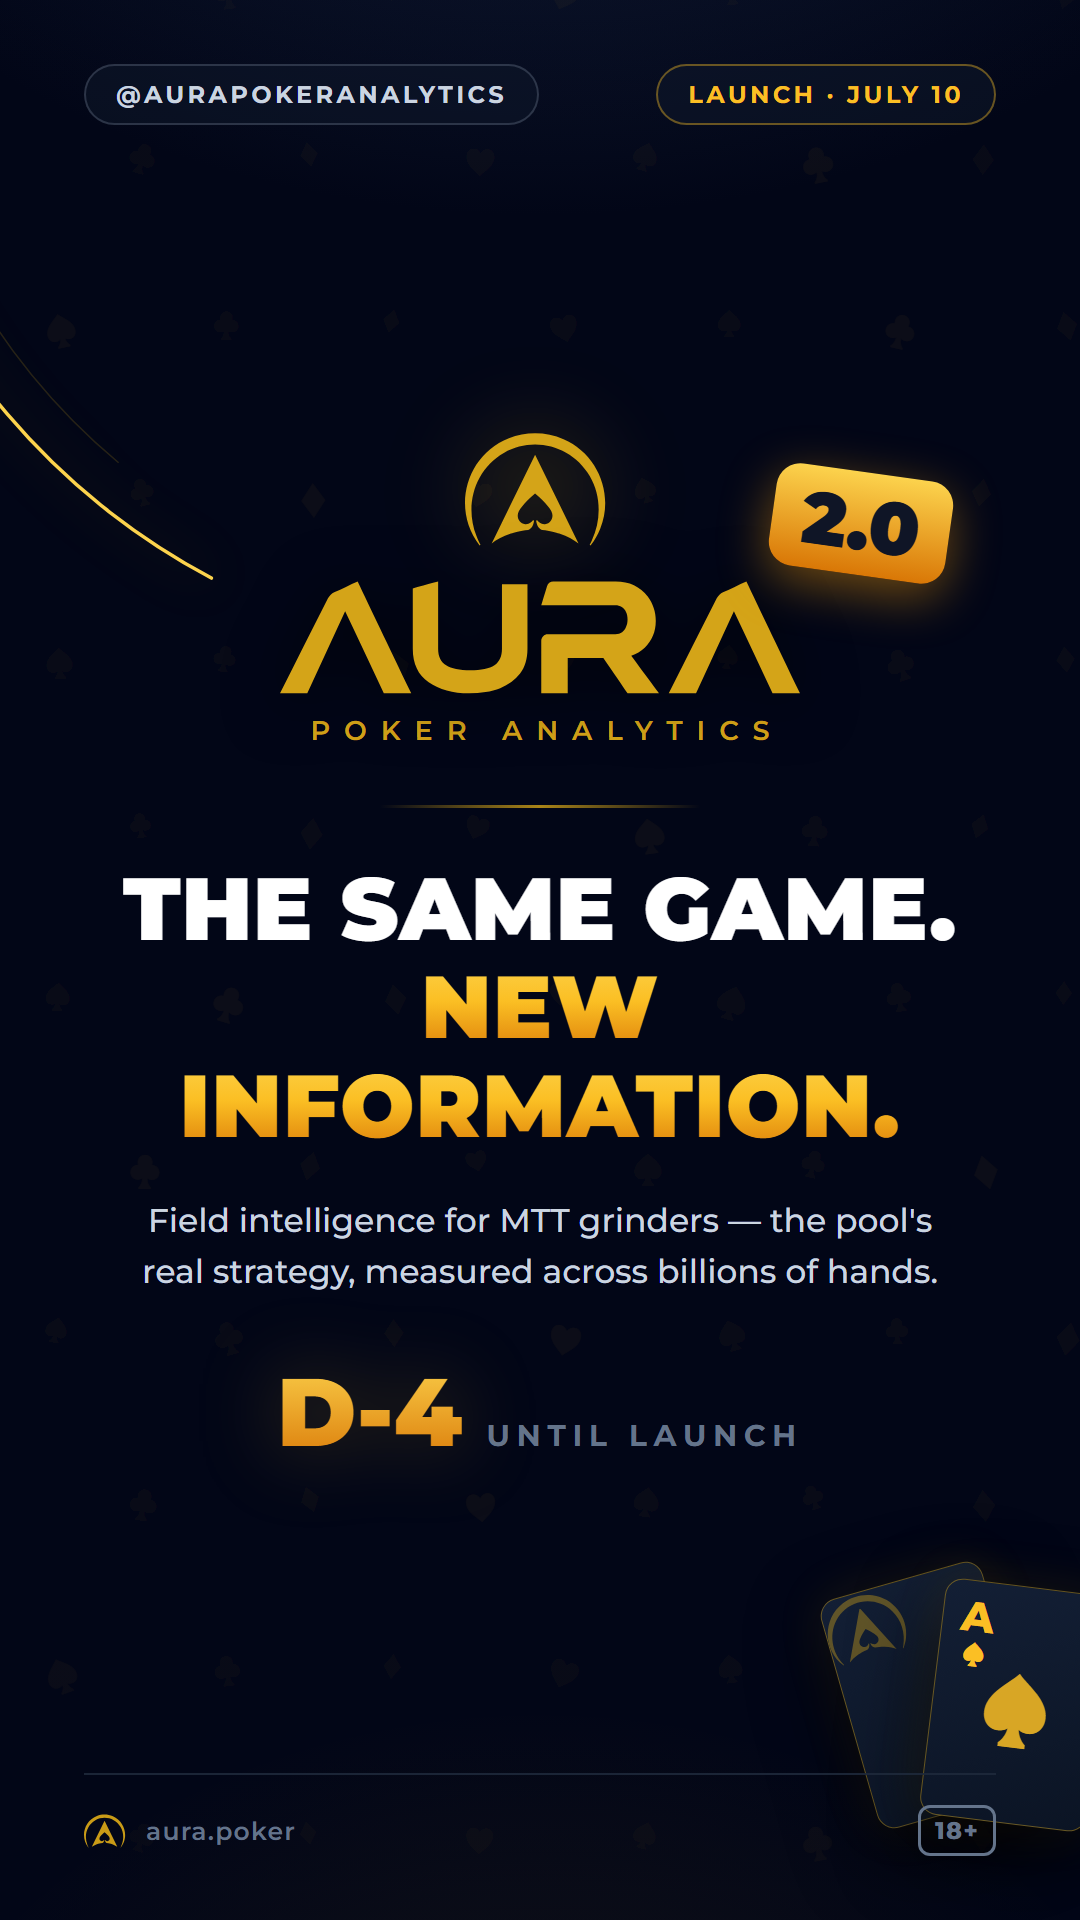
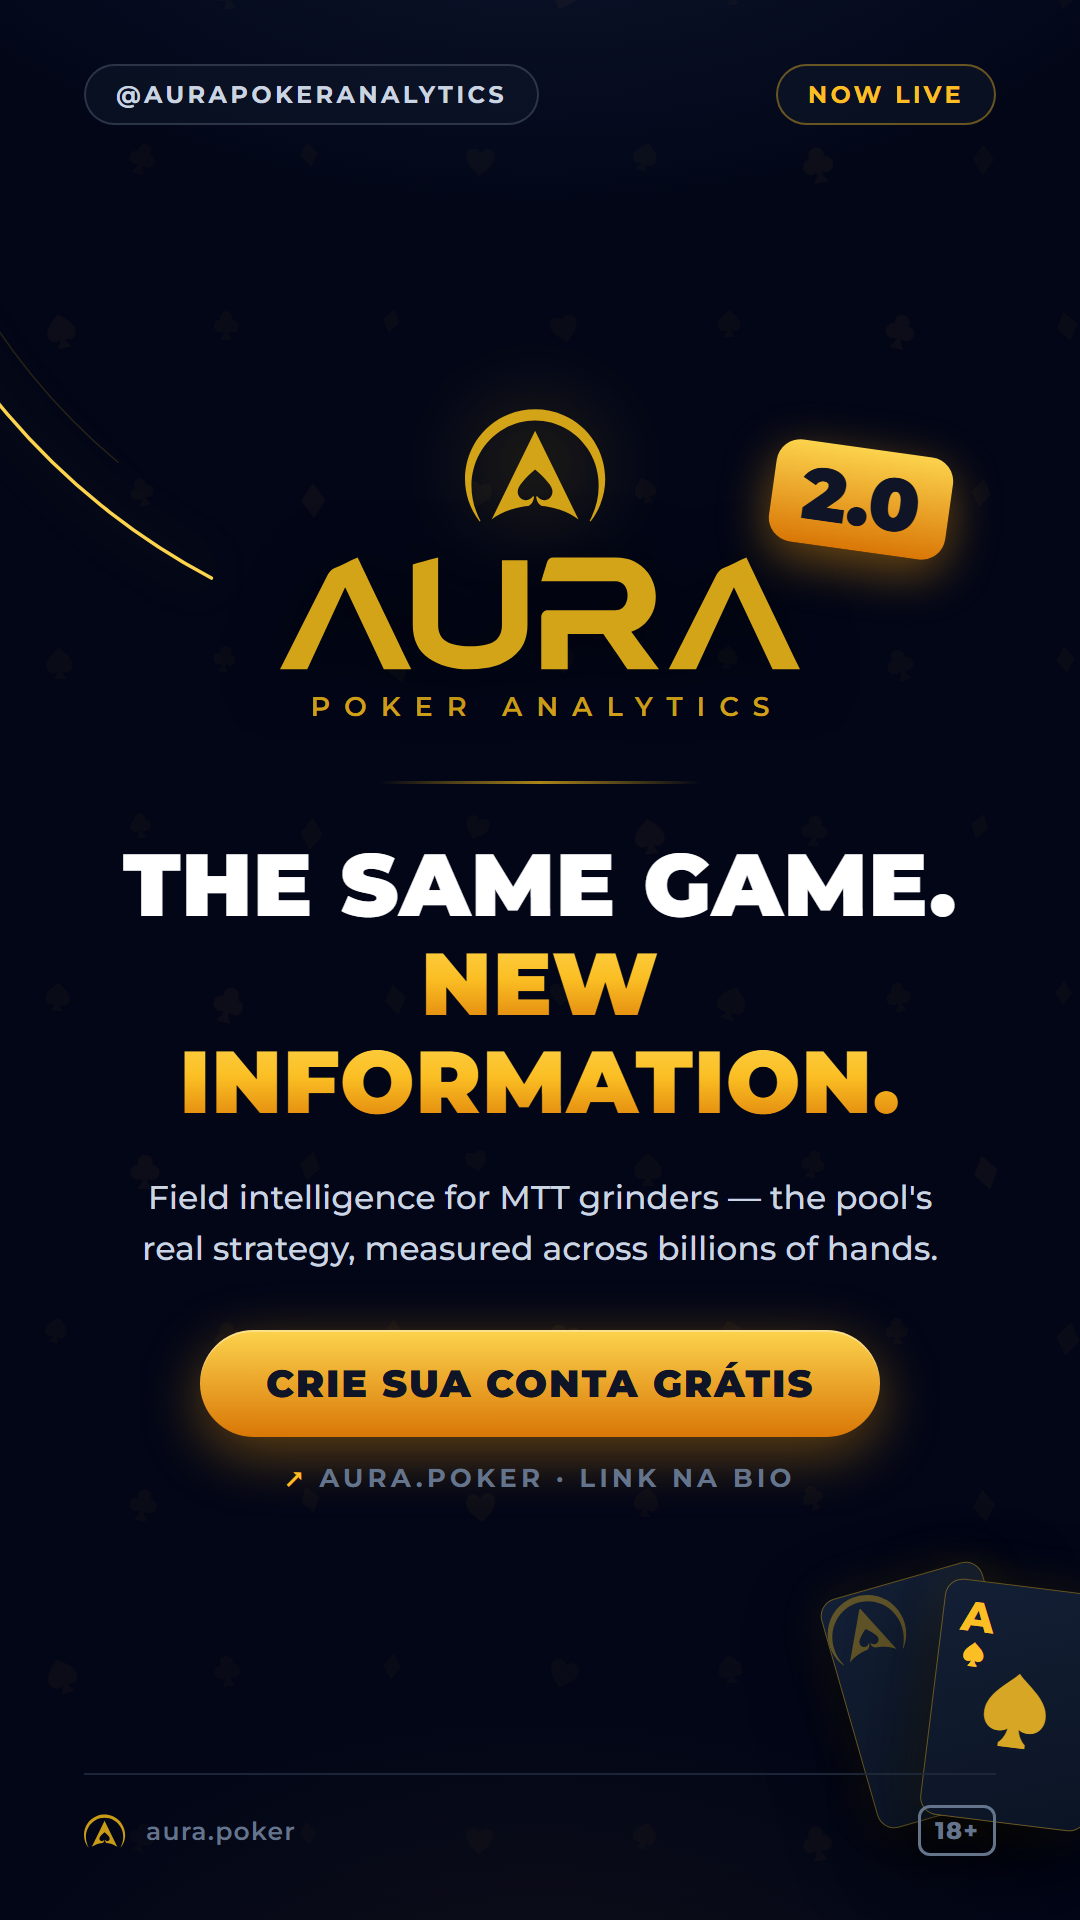
feat(instagram): hero de lancamento direto (sem countdown) + brief de trafego
launch-hero: countdown D-4 vira CTA de conta gratis; chip Now live. Decisao do PO 2026-07-08: entramos direto com posts de lancamento, sem teaser. Estrategia-criativa: cadencia sem countdown (D0 = reveal + Hotspot). Novo content/brief-trafego-post-launch-hero.md: prompt pra thread de Midia Paga definir o papel do post no pago (3 opcoes, tudo pausado). Re-render do hero feed + story.

Changed region(s): [[0.0917, 0.4375, 0.8861, 0.7812], [0.2444, 0.1875, 0.8861, 0.4062], [0.6417, 0.0312, 0.8861, 0.0625]]

diff --git a/instagram/templates/launch-hero.html b/instagram/templates/launch-hero.html
@@ -5,14 +5,14 @@
 <title>Aura · launch-hero</title>
 <script>
 /* ============================================================
-   LAUNCH HERO — pilar L1 (reveal / countdown do launch 2.0)
+   LAUNCH HERO — pilar L1 (reveal do launch 2.0)
    1080×1350 (feed) · 1080×1920 (story — mesmo arquivo)
    Edite apenas o CONFIG.
    ============================================================ */
 const CONFIG = {
   // chip do topo esquerdo e direito
   topLeft: "@aurapokeranalytics",
-  topRight: "Launch · July 10",
+  topRight: "Now live",
 
   // badge de versão sobre o wordmark ("" esconde)
   versionBadge: "2.0",
@@ -23,9 +23,9 @@ const CONFIG = {
   // linha de apoio (sentence case)
   sub: "Field intelligence for MTT grinders — the pool's real strategy, measured across billions of hands.",
 
-  // chip de countdown/CTA central ("" esconde)  ex: "D-4" ou "OUT NOW"
-  countdown: "D-4",
-  countdownLabel: "until launch",
+  // CTA de lançamento ("" esconde)
+  cta: "Crie sua conta grátis",
+  ctaSub: "aura.poker · link na bio",
 
   // cartas decorativas no canto (true/false)
   showCards: true,
@@ -166,28 +166,32 @@ body {
   color: var(--ink-soft);
   max-width: 820px;
 }
-.countdown {
+.cta-block {
   margin-top: 56px;
   display: flex;
-  align-items: baseline;
-  gap: 24px;
+  flex-direction: column;
+  align-items: center;
+  gap: 22px;
 }
-.countdown .big {
-  font-size: 96px;
+.cta-pill {
+  font-size: 38px;
   font-weight: 900;
+  letter-spacing: 0.05em;
+  text-transform: uppercase;
+  color: var(--navy);
   background: linear-gradient(180deg, var(--amber3), var(--amber6));
-  -webkit-background-clip: text;
-  background-clip: text;
-  color: transparent;
-  filter: drop-shadow(0 0 40px rgba(251, 191, 36, 0.25));
+  border-radius: 999px;
+  padding: 30px 66px;
+  box-shadow: 0 16px 60px rgba(245, 158, 11, 0.4), inset 0 2px 0 rgba(255, 255, 255, 0.35);
 }
-.countdown .label {
-  font-size: 30px;
+.cta-sub {
+  font-size: 26px;
   font-weight: 700;
-  letter-spacing: 0.22em;
+  letter-spacing: 0.16em;
   text-transform: uppercase;
   color: var(--ink-dim);
 }
+.cta-sub::before { content: "↗ "; color: var(--amber); }
 
 /* ------- cartas decorativas ------- */
 .cards { position: absolute; right: -30px; bottom: 96px; z-index: 2; }
@@ -262,9 +266,9 @@ footer.bar { border-top: 2px solid rgba(30, 41, 59, 0.9); padding-top: 30px; }
   <div class="divider"></div>
   <h1 class="headline" id="headline"></h1>
   <p class="sub" id="sub"></p>
-  <div class="countdown" id="countdown">
-    <span class="big" id="countBig"></span>
-    <span class="label" id="countLabel"></span>
+  <div class="cta-block" id="ctaBlock">
+    <span class="cta-pill" id="cta"></span>
+    <span class="cta-sub" id="ctaSub"></span>
   </div>
 </div>
 
@@ -324,11 +328,11 @@ document.getElementById("footerLeft").textContent = CONFIG.footerLeft;
 const version = document.getElementById("version");
 if (CONFIG.versionBadge) { version.textContent = CONFIG.versionBadge; } else { version.style.display = "none"; }
 
-const cd = document.getElementById("countdown");
-if (CONFIG.countdown) {
-  document.getElementById("countBig").textContent = CONFIG.countdown;
-  document.getElementById("countLabel").textContent = CONFIG.countdownLabel;
-} else { cd.style.display = "none"; }
+const ctaBlock = document.getElementById("ctaBlock");
+if (CONFIG.cta) {
+  document.getElementById("cta").textContent = CONFIG.cta;
+  document.getElementById("ctaSub").textContent = CONFIG.ctaSub;
+} else { ctaBlock.style.display = "none"; }
 
 if (!CONFIG.showCards) document.getElementById("cards").style.display = "none";
 </script>

diff --git a/content/brief-trafego-post-launch-hero.md b/content/brief-trafego-post-launch-hero.md
@@ -1,0 +1,73 @@
+# Brief → thread Mídia Paga: estratégia de tráfego do post de lançamento
+
+**De:** Fábrica de posts · **Para:** thread Mídia Paga · **Data:** 2026-07-08
+**Como usar:** cole o bloco abaixo na thread de Mídia Paga. É um prompt auto-contido; ele se
+onboarda sozinho pelos docs. Rafael aprova e ativa — nenhum agente gasta nada.
+
+---
+
+## Prompt (colar na thread de Mídia Paga)
+
+> Você é a thread de **Mídia Paga** da Aura. Onboarding obrigatório antes de responder: leia
+> `aura-marketing/AGENTS.md`, `docs/00-strategy/plano-marketing-launch-2.0.md`,
+> `docs/00-strategy/estrategia-criativa-launch-2.0.md` e **todos** os 4 docs que você já escreveu em
+> `docs/02-paid/` (`compliance-meta.md`, `pixel-capi-spec.md`, `estrutura-campanhas.md`,
+> `auditoria-meta-ads.md`). Você escreve APENAS em `docs/02-paid/`. Regra absoluta: tudo sobe
+> **pausado**; só o Rafael ativa e gasta.
+>
+> **Tarefa:** definir a estratégia de tráfego pago para o **post de lançamento da Aura 2.0** — o
+> criativo *launch-hero* (reveal "O MESMO JOGO — NOVAS INFORMAÇÕES" + CTA "Crie sua conta grátis").
+> Existe em feed 1080×1350 e story 1080×1920; renders em
+> `instagram/output/2026-07-06-templates-v2/launch-hero*.png`. Mudança recente: **removemos a fase
+> de teaser/countdown** — entramos direto com posts de lançamento (decisão do PO, 2026-07-08).
+>
+> **A tensão que você precisa resolver (não ignore):** o launch-hero é um criativo de **marca/reveal**,
+> não um stat/DR card. Sua própria `estrutura-campanhas.md` (§0, §4) diz que o pago **recicla
+> vencedores do orgânico** (30–45d de validação) e reusa **stat cards de conversão**, não estreia
+> conceito nem empurra branding. Ao mesmo tempo, a fase RTG (§1) está **faminta de público**: a base
+> orgânica é minúscula (710 seguidores) e o retargeting não tem quem converter. Então a pergunta real
+> é: **o reveal de lançamento merece verba, e com que papel?** As opções que quero ver avaliadas:
+>   1. **Só orgânico** (fiel ao plano): o reveal não recebe pago; a verba espera os stat/feature cards
+>      vencerem no orgânico. Diga o custo de oportunidade disso no launch.
+>   2. **Boost de alcance/engajamento** do reveal (objetivo topo de funil), com a tese de **semear
+>      mais rápido o público quente** que a RTG (§1) vai reciclar — não otimizar por cadastro. Se
+>      recomendar, defina: orçamento (dentro dos guard-rails do §5), público (broad BR 18+? interesses
+>      de poker? engajadores IG?), duração, posicionamentos (feed + stories/reels IG, sem Audience
+>      Network conforme §1), e como medir se "semear público" valeu (custo por engajador retido, tamanho
+>      do público quente gerado — NÃO cadastro).
+>   3. **Direto para conversão** no reveal (objetivo `CompleteRegistration`), com UTM próprio. Diga por
+>      que faria/ não faria isso num criativo de marca antes de validar DR no orgânico.
+>
+> **Restrições que valem para qualquer opção:**
+>   - **Pré-requisitos do §7** da `estrutura-campanhas.md` (método de pagamento, domínio no dataset,
+>     eventos da landing validados, campanhas antigas com erro desativadas) precisam estar OK antes de
+>     subir mesmo pausado. Liste o status de cada um; se algum bloqueia, diga o que destrava.
+>   - **Policy Meta real-money gaming** (`compliance-meta.md`): o reveal cita poker/field — reavalie o
+>     risco de classificação de um criativo de *lançamento* e o argumento "SaaS de estudo". Ajustes de
+>     copy/arte do anúncio pago (vs. o post orgânico) se necessário.
+>   - **18+**, zero promessa de lucro, checklist de compliance por anúncio.
+>   - UTM do post de lançamento: proponha o padrão (ex.: `utm_campaign=launch20_reveal`,
+>     `utm_content` por formato) coerente com o naming do §0.
+>   - Orçamento em **opções para o Rafael decidir** (R$/dia, o que compra, leitura), no formato do §5.
+>     Nada de valor único cravado.
+>
+> **Entregável:** uma nova seção/addendum em `docs/02-paid/estrutura-campanhas.md` (ou um doc novo em
+> `docs/02-paid/` se preferir isolar) com: a recomendação (qual das 3 opções e por quê), o plano
+> operacional (objetivo, público, orçamento-opções, posicionamentos, UTM, criativo-ajustes), o status
+> dos pré-requisitos, e o checklist de compliance específico do anúncio. Tudo **pausado**, para o
+> Rafael revisar e ativar. Se a recomendação for "só orgânico por ora", diga explicitamente e defina o
+> **gatilho** que abre o pago (ex.: X visitantes no pixel, ou o 1º stat card vencedor).
+
+---
+
+## Contexto extra (fora do prompt, para o Rafael)
+
+- **Minha leitura (Fábrica):** o mais coerente com o plano é a **opção 2 pequena** — um empurrão de
+  alcance no reveal só para engordar o público quente que a RTG recicla, já que 710 seguidores não
+  sustentam retargeting. Mas quem decide o trade-off é a thread de Mídia Paga + você. Deixei as 3
+  opções abertas de propósito.
+- **Dependência:** os pré-requisitos do §7 (pagamento, domínio, eventos da landing) provavelmente
+  ainda não estão 100% — isso pode ser o gargalo real antes de qualquer real, mais do que a escolha
+  de estratégia.
+- Nada aqui muda a fábrica: eu sigo produzindo criativo orgânico. Este brief só destrava a thread de
+  pago decidir o papel do post de lançamento.

diff --git a/docs/00-strategy/estrategia-criativa-launch-2.0.md b/docs/00-strategy/estrategia-criativa-launch-2.0.md
@@ -32,14 +32,17 @@ Hierarquia de argumentos (usar nessa ordem):
 
 | # | Pilar | O que é | Formato |
 |---|---|---|---|
-| L1 | **Reveal 2.0** | teaser + anúncio: "o mesmo jogo — novas informações" | hero card + story countdown |
+| L1 | **Reveal 2.0** | anúncio de lançamento: "o mesmo jogo — novas informações" + CTA conta grátis | hero card (feed) + story |
 | L2 | **Module tour** | 1 carrossel por módulo: PreFlop Analysis, Postflop Analysis, Hotspot | carrossel 5–7 (capa → 3-4 telas/valor → CTA) |
 | L3 | **"Você consegue responder…"** | pergunta de estudo real → a tela da Aura que responde | card único com UI + pergunta |
 | L4 | **Feature/filtro em destaque** | estágio de torneio, buy-in, Mystery/KO, IP/OOP, sizing %pot, amostra | spotlight card |
 | L5 | **CTA free** | plano grátis permanente, sem cartão, link na bio | CTA card / slide final |
 
-Cadência teaser (06–09/07): L1 diário (countdown D-4…D-1) + 1 L3 como aperitivo.
-Launch week (10–17/07): D0 = L1 reveal + L2 Hotspot; depois alternar L2/L3/L4, fechar sempre com L5.
+**Decisão 2026-07-08 (PO): sem fase de teaser/countdown.** Entramos direto com posts de lançamento
+— o hero L1 já é o anúncio "no ar" com CTA de conta grátis (não mais D-4…D-1).
+
+Cadência: **D0 = L1 reveal (hero) + L2 Hotspot**; dias seguintes alternam L2/L3/L4, fechando sempre
+com L5. O ritmo do arco de launch (~1 post/dia até 17/07) segue o plano macro; sustentação 18/07+.
 
 ## 4. Sistema visual v2 ("mais capricho")
 
